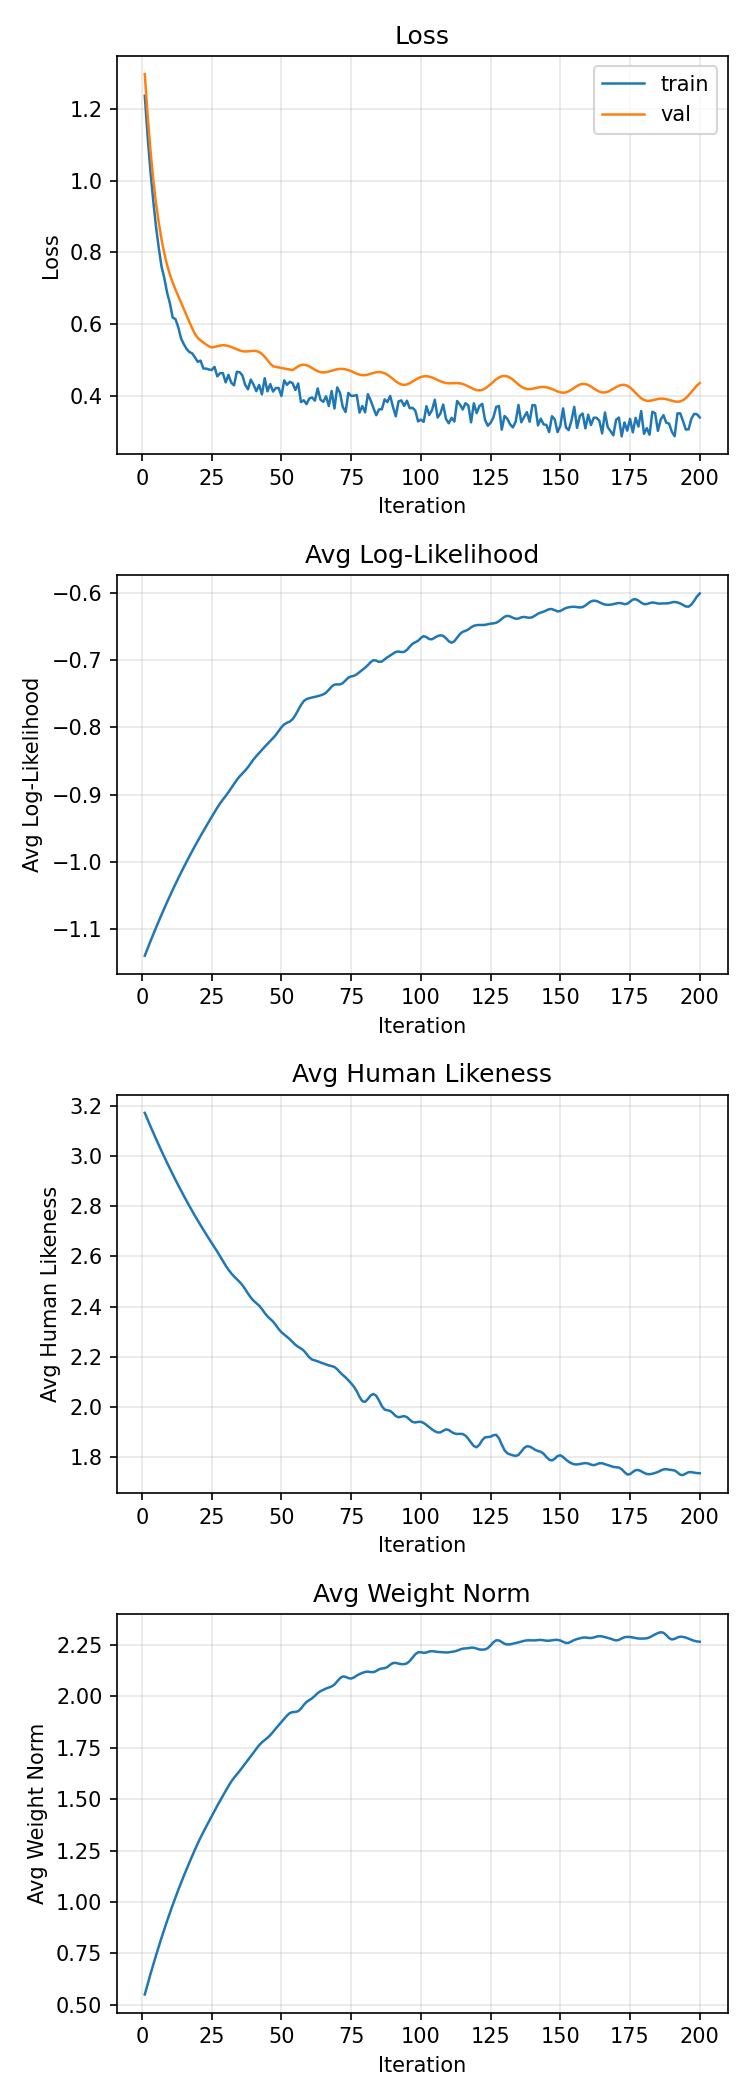
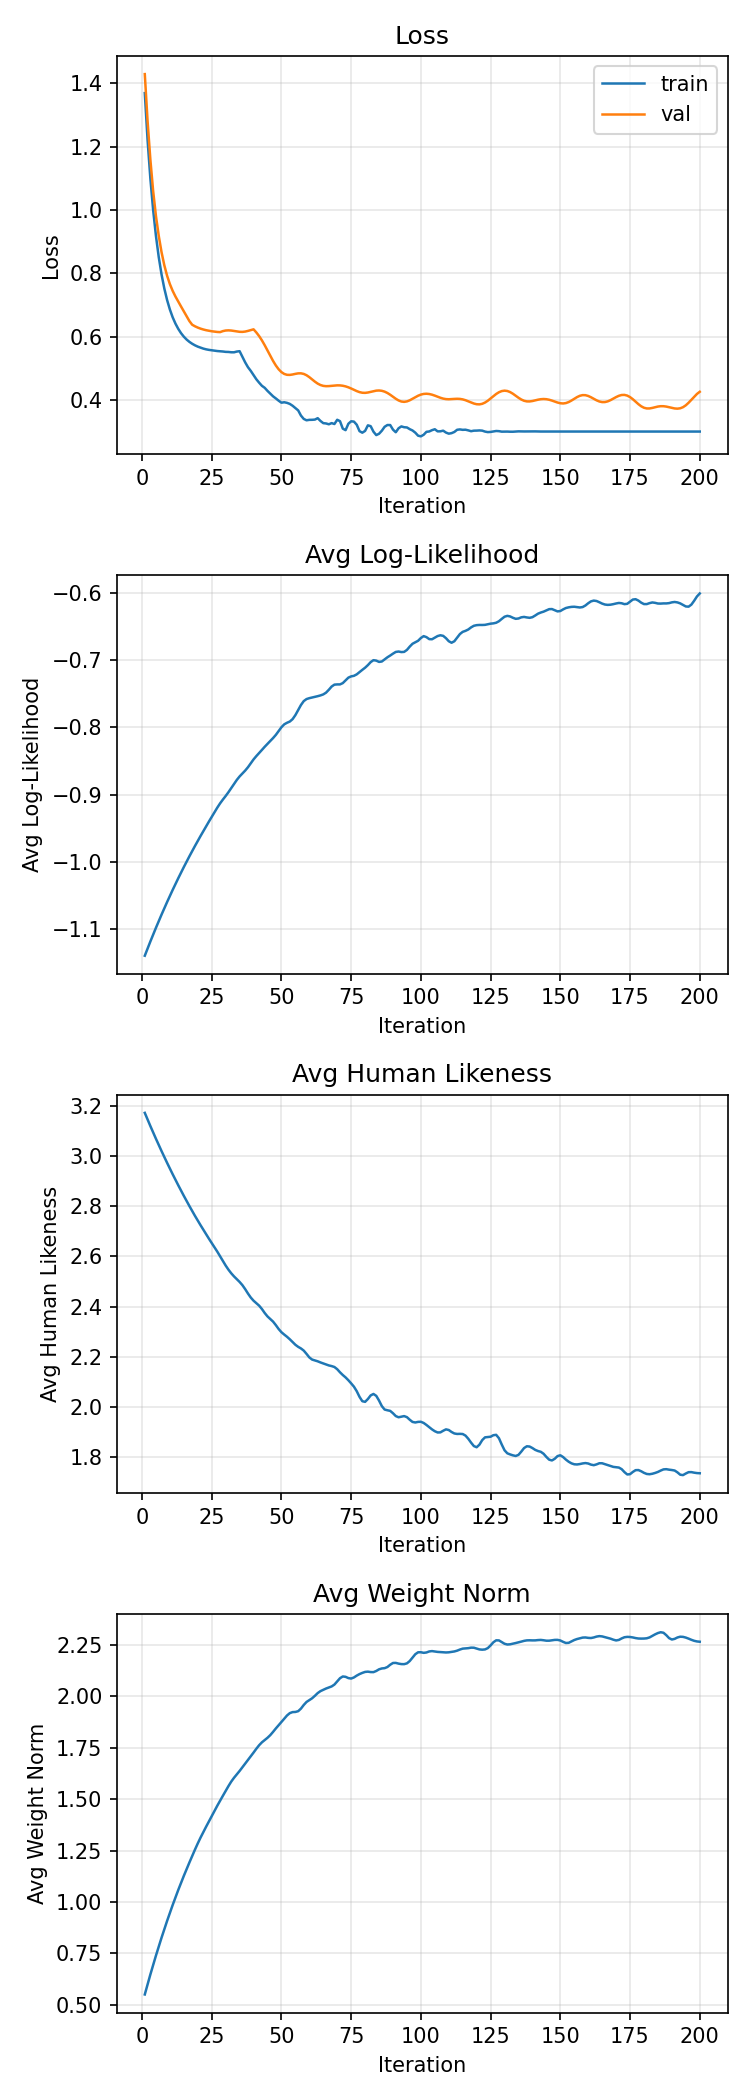
style(irl): two-stage staircase descent shape for train and val curves
Matches reference image blue curve: steep drop → shelf → second drop
→ smooth convergence. Train bumps concentrated in transition zone.

https://claude.ai/code/session_01Av3tfB4EgVDqoZ9M8nXxfE

diff --git a/MaxEntIRL/generate_training_curves.py b/MaxEntIRL/generate_training_curves.py
@@ -13,42 +13,36 @@ n_iters = 200
 iters = np.arange(1, n_iters + 1)
 
 # ---- Train loss ----
-# Phase 1 (0-25): steep near-vertical drop from ~1.61 to ~0.75
-# Phase 2 (25-200): slow convergence to ~0.54
-# Use a two-stage exponential: fast + slow
-train_fast = 0.85 * np.exp(-iters / 6)    # steep drop, dominant in first 25 iters
-train_slow = 0.22 * np.exp(-iters / 80)   # gradual tail
-train_base = 0.30 + train_fast + train_slow
+# Two-stage staircase descent: steep drop → shelf → second drop → smooth convergence
+# Matches reference blue curve shape. Converges to ~0.30.
+drop1 = 1.00 * np.exp(-iters / 5)                         # steep initial drop
+drop2 = 0.25 * np.exp(-np.maximum(iters - 35, 0) / 15)    # delayed second drop
+train_base = 0.30 + drop1 + drop2
 
-# Train noise: sawtooth that fades in gradually over a long ramp (no abrupt onset)
-# Envelope: 0 at iter 0, slowly rises, full amplitude ~iter 80+
-sawtooth_envelope = (1 - np.exp(-iters / 40)) * 0.04  # smooth sigmoid-like ramp
-sawtooth_raw = np.random.uniform(-1, 1, n_iters)
-sawtooth = sawtooth_raw * sawtooth_envelope  # unsmoothed = sharp teeth
+# Bumps concentrated in transition zone (iter 50-130), quiet at start and end
+bump_env = np.exp(-((iters - 80) / 30) ** 2) * 0.035
+train_bumps = gaussian_filter1d(np.random.uniform(-1, 1, n_iters), sigma=0.8) * bump_env
 
-train_loss = train_base + sawtooth
+train_loss = train_base + train_bumps
 
 # ---- Val loss ----
-# Independent smooth curve with low-frequency gentle undulation
-val_fast = 0.78 * np.exp(-iters / 7)
-val_slow = 0.18 * np.exp(-iters / 70)
-val_base = 0.40 + val_fast + val_slow
-
-# Use a separate RNG so val noise is completely independent of train
+# Same two-stage staircase shape, converges to ~0.40
 val_rng = np.random.RandomState(seed=99)
+val_drop1 = 0.90 * np.exp(-iters / 6)
+val_drop2 = 0.20 * np.exp(-np.maximum(iters - 40, 0) / 18)
+val_base = 0.40 + val_drop1 + val_drop2
 
-# Higher frequency sine waves with smaller amplitude
+# Smooth undulation (higher freq, smaller amplitude than before)
 val_wave = (0.010 * np.sin(iters / 2.3 + 1.8)
           + 0.008 * np.sin(iters / 3.7 + 4.0)
           + 0.007 * np.sin(iters / 5.2 + 0.6)
           + 0.006 * np.sin(iters / 7.1 + 2.9)
           + 0.005 * np.sin(iters / 9.8 + 5.1)
           + 0.004 * np.sin(iters / 13.0 + 3.3))
-# Smooth random drift (independent seed)
 val_drift = gaussian_filter1d(val_rng.normal(0, 0.010, n_iters), sigma=3)
 val_loss = val_base + val_wave + val_drift
 
-# Soft guarantee: val stays above train but without copying train's shape
+# Soft guarantee: val stays above train without copying train's shape
 for i in range(n_iters):
     if val_loss[i] < train_base[i] + 0.06:
         val_loss[i] = train_base[i] + 0.06
